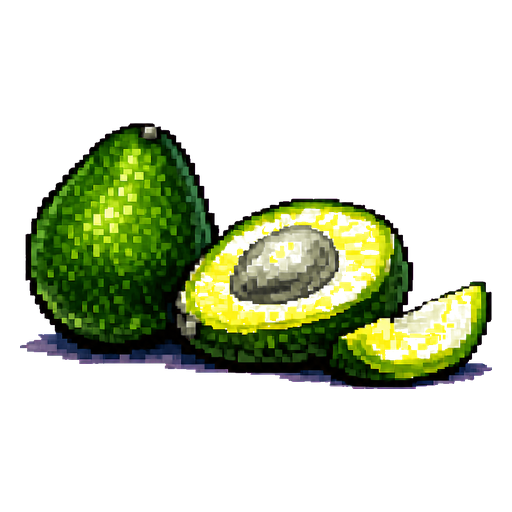
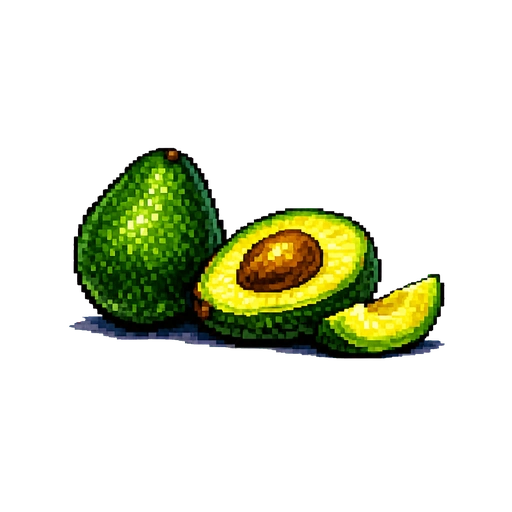
fix: restore banana and avocado artwork

Changed region(s): [[0.0312, 0.2188, 0.9688, 0.7812]]

diff --git a/tests/test_product_assets.py b/tests/test_product_assets.py
@@ -1,7 +1,7 @@
 """Regression guards for mobile product assets."""
 from __future__ import annotations
 
-from PIL import Image
+from PIL import Image, ImageDraw
 
 from tools.audit_product_assets import IMAGES_DIR, _catalog_coverage
 
@@ -25,6 +25,33 @@ EXPECTED_HIDDEN_MOBILE_IMAGES = {
     "zerowka_CTP ALDI",
 }
 
+# Zamknięte prześwity większe niż ten limit wymagają ręcznego przeglądu.
+# W wiśniach tło jest celowo zamknięte pomiędzy owocami i ogonkami.
+MAX_UNREVIEWED_ALPHA_HOLE_PIXELS = 1_000
+EXPECTED_LARGE_ALPHA_HOLES = {
+    "Wiśnie kwaśne.webp",
+    "Wiśnie słodkie.webp",
+}
+
+
+def _enclosed_transparent_pixels(path) -> int:
+    """Count fully transparent pixels that cannot reach an image edge."""
+    with Image.open(path) as opened:
+        alpha = opened.convert("RGBA").getchannel("A")
+        transparent = alpha.point(lambda value: 255 if value <= 8 else 0)
+
+    width, height = transparent.size
+    for x in range(width):
+        for y in (0, height - 1):
+            if transparent.getpixel((x, y)):
+                ImageDraw.floodfill(transparent, (x, y), 0)
+    for y in range(height):
+        for x in (0, width - 1):
+            if transparent.getpixel((x, y)):
+                ImageDraw.floodfill(transparent, (x, y), 0)
+
+    return transparent.histogram()[255]
+
 
 def test_mobile_product_asset_coverage_is_controlled():
     images = sorted(IMAGES_DIR.glob("*.webp"))
@@ -46,3 +73,15 @@ def test_product_image_size_budget_is_enforced():
             assert image.width <= 512, path.name
             assert image.height <= 512, path.name
             assert image.format == "WEBP", path.name
+
+
+def test_product_images_do_not_gain_large_unreviewed_alpha_holes():
+    images = sorted(IMAGES_DIR.glob("*.webp"))
+    suspicious = {
+        path.name
+        for path in images
+        if _enclosed_transparent_pixels(path)
+        > MAX_UNREVIEWED_ALPHA_HOLE_PIXELS
+    }
+
+    assert suspicious == EXPECTED_LARGE_ALPHA_HOLES

diff --git a/docs/PRODUCT_ASSET_AUDIT_2026-07-05.md b/docs/PRODUCT_ASSET_AUDIT_2026-07-05.md
@@ -5,10 +5,10 @@ Cel: przygotowac bezpieczna liste grafik produktow do podmiany bez mieszania teg
 ## Podsumowanie
 
 - Pliki WebP: 219
-- Laczy rozmiar katalogu `assets/images`: 8.89 MiB
+- Laczy rozmiar katalogu `assets/images`: 8.71 MiB
 - Kandydaci high priority: 159
 - Kandydaci medium priority: 1
-- Kandydaci low priority: 9
+- Kandydaci low priority: 7
 - Obrazy wygladajace jak szablon/karta: 159
 - Widoczne produkty mobilne: 208
 - Widoczne produkty bez grafiki: 0
@@ -91,10 +91,8 @@ Cel: przygotowac bezpieczna liste grafik produktow do podmiany bez mieszania teg
 | Plik | Rozmiar | Priorytet |
 |---|---:|---|
 | `Jabłka suszone.webp` | 141.0 KiB | medium |
-| `Banany.webp` | 136.4 KiB | low |
 | `Pomarańcze.webp` | 133.2 KiB | low |
 | `Winogrono amerykańskie.webp` | 126.2 KiB | low |
-| `Awokado.webp` | 124.1 KiB | low |
 | `Daktyle suszone.webp` | 123.1 KiB | low |
 | `Figi suszone.webp` | 121.6 KiB | low |
 | `Oliwki.webp` | 121.3 KiB | low |
@@ -105,6 +103,8 @@ Cel: przygotowac bezpieczna liste grafik produktow do podmiany bez mieszania teg
 | `Limonka.webp` | 116.5 KiB | ok |
 | `Brokuły.webp` | 114.6 KiB | ok |
 | `Kantalupa.webp` | 112.1 KiB | ok |
+| `Mango.webp` | 110.9 KiB | ok |
+| `Nektaryny.webp` | 109.5 KiB | ok |
 
 ## Pokrycie katalogu mobilnego
 

diff --git a/CHANGELOG.md b/CHANGELOG.md
@@ -37,6 +37,9 @@ wersjonowanie wg [SemVer](https://semver.org/).
 
 ### Naprawiono
 
+- Odtworzono kompletne wnętrza ilustracji bananów i awokado po zbyt agresywnym
+  usuwaniu tła. Test regresji przegląda cały katalog produktów i zatrzymuje
+  duże, niezatwierdzone otwory w kanale alfa.
 - Kontrola Android Auto Backup sprawdza teraz finalny manifest po scaleniu
   Gradle, a dla wydania — manifest rzeczywiście zapakowany w AAB. Usuwa to
   fałszywy błąd CI mimo poprawnego `android:allowBackup=false` w bundle.
@@ -49,7 +52,7 @@ wersjonowanie wg [SemVer](https://semver.org/).
 
 ### Testy
 
-- Pełna suita zawiera 469 testów i utrzymuje 55,63% mierzonego pokrycia przy
+- Pełna suita zawiera 472 testy i utrzymuje 55,63% mierzonego pokrycia przy
   twardym progu 50%.
 
 ## [1.5.13] - 2026-08-01

diff --git a/ROADMAP.md b/ROADMAP.md
@@ -9,8 +9,9 @@ zbierania opinii i wydania poprawki wynikającej z opinii.
 
 Kolejność release train:
 
-1. zabezpieczyć higienę repozytorium, uzyskać zielone checki i scalić PR #13 do
-   `main`;
+1. naprawić uszkodzone maski alfa ilustracji bananów i awokado, przeskanować
+   pozostałe grafiki produktów, zabezpieczyć higienę repozytorium, uzyskać
+   zielone checki i scalić bieżącą gałąź do `main`;
 2. utworzyć checkpoint/tag na `main`, zbudować podpisany AAB z tego commita i
    wykonać krótki smoke na fizycznym ARM oraz API 35/36;
 3. opublikować ten sam AAB na aktywnej ścieżce testu zamkniętego i potwierdzić,
